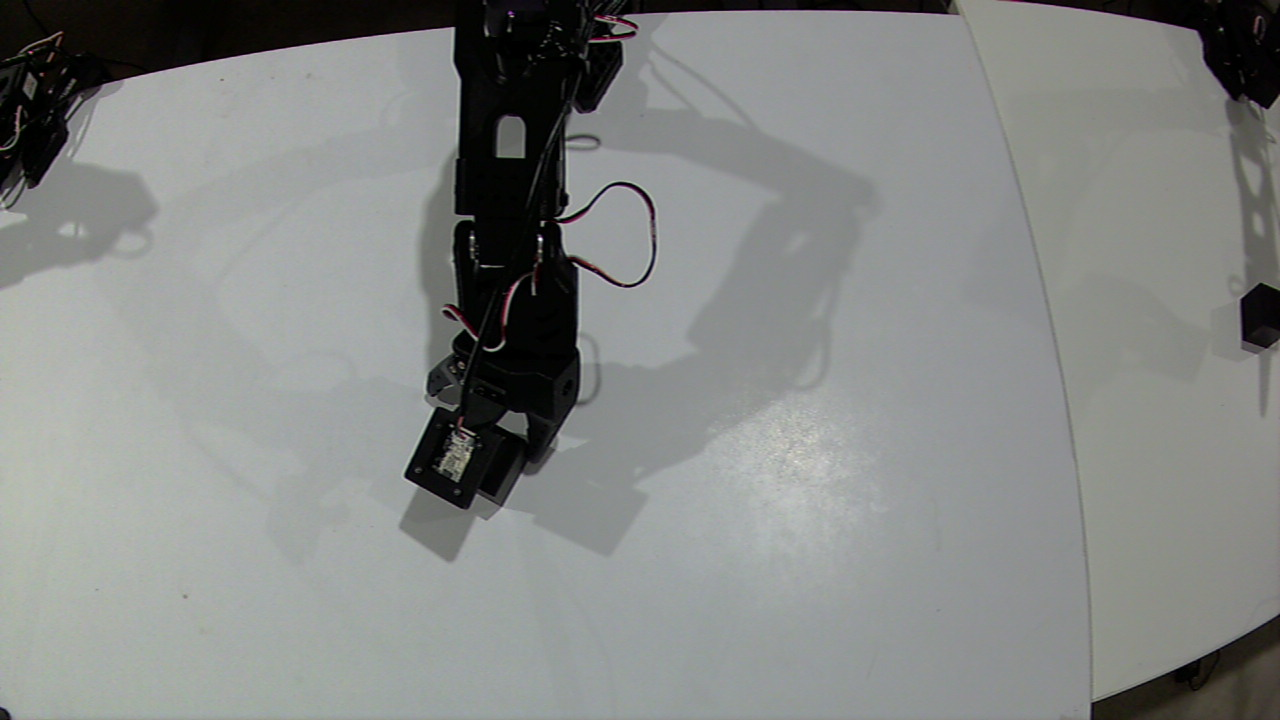
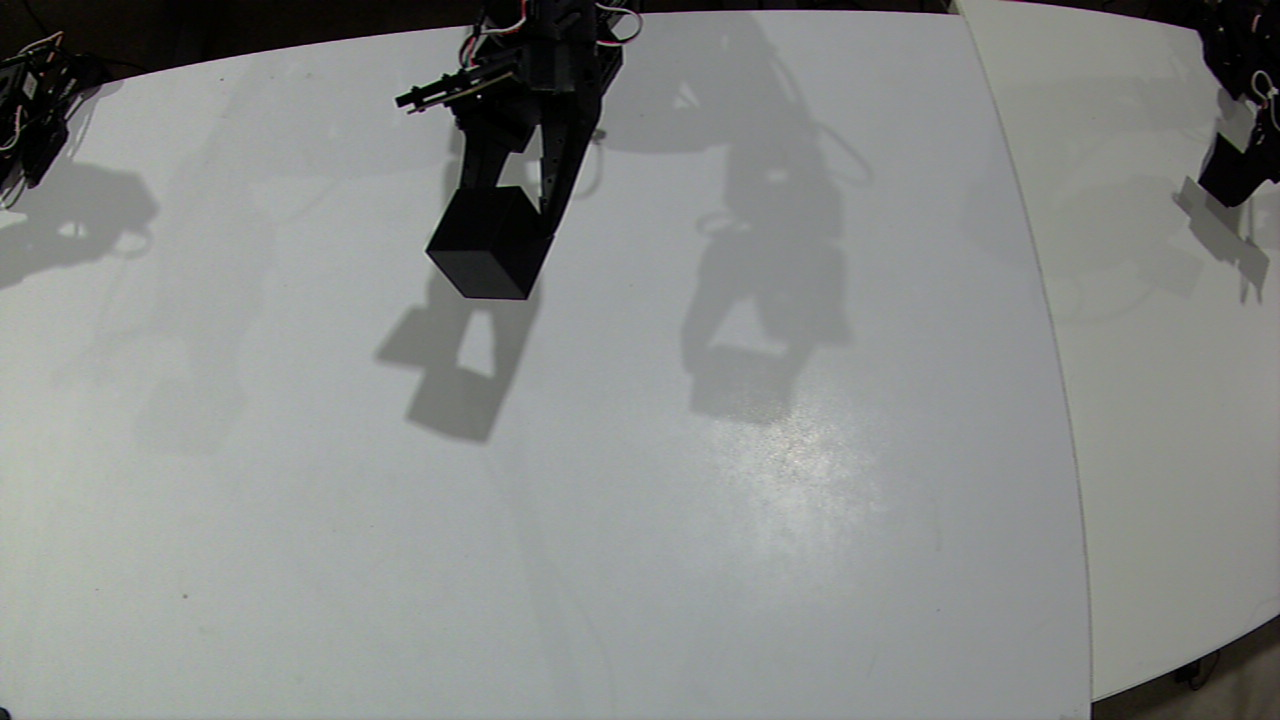
Update tools for arm-007__gpt-6-astra__grasp-cube
{"agent_id": "arm-007__gpt-6-astra__grasp-cube", "designation": "arm-007", "identity_version": 2, "model": "gpt-6-astra", "provider": "codex", "task_definition": {"description": "Start episode, pickup the black cube, bring black cube to home position, confirm successful grasp, stop episode, return object to new position, return home, repeat", "id": "grasp-cube", "success_criteria": ["successful episode coverage across the entire workspace", "achieve at least 50 successful episodes an hour"], "version": 2}, "task_id": "grasp-cube", "task_sha256": "e6c8adbb1562fdc6af3405e2e618046b110e27856c520c9f5cd329c258fb3818", "task_version": 2, "tools_sha256": "d5e29680a4860805dbd365016505a5ef24a24dec5ceac14b64aa4ab81fed2b74"}

diff --git a/agents/arm-007__gpt-6-astra__grasp-cube/cube_cycles.py b/agents/arm-007__gpt-6-astra__grasp-cube/cube_cycles.py
@@ -1,0 +1,74 @@
+"""Recorded cube cycles, with fresh camera and contact checks and bounded placement grid."""
+import json,time,sys,signal
+from pathlib import Path
+import cv2,numpy as np
+import calibrate_workspace as c, recording
+from camd_client import read_frame
+from cube_control import snapshot
+HOME=c.load_home(Path('home_pose.json'))
+LOG=Path('tools/cube_cycles.jsonl')
+STATE=Path('tools/cube_cycle_state.json')
+def emit(**d):
+ d['time']=time.time()
+ print(json.dumps(d),flush=True)
+ with LOG.open('a') as f:f.write(json.dumps(d)+'\n')
+def move(b,q,t=1.8):
+ for role in ('top','wrist'):read_frame(role)
+ q=c.clamp_target(q,b.calibration)
+ b.enable_torque(list(q));c.move(b,q,t)
+ report=c.settle(b,q,.25)
+ if report['physical_stops']:raise RuntimeError('Physical stop: '+str(report))
+ if max(report['error_degrees'].values(),default=0)>5:raise RuntimeError('Position miss: '+str(report))
+ for j in c.JOINTS:
+  if c.fault_bits(b,j):raise RuntimeError('Motor fault '+j)
+def pose(pan,elbow=20):
+ from scipy.optimize import brentq
+ from fk import forward
+ def height(s):return forward(dict(shoulder_pan=2,shoulder_lift=s,elbow_flex=elbow,wrist_flex=65-s-elbow,wrist_roll=-30))['z']+.002193685765342651
+ s=brentq(height,-40,35)
+ return dict(shoulder_pan=pan,shoulder_lift=s,elbow_flex=elbow,wrist_flex=65-s-elbow)
+def above(q):return {**q,'shoulder_lift':q['shoulder_lift']-30,'wrist_flex':q['wrist_flex']+30}
+def home(b):move(b,HOME,2.3)
+def grip(b):
+ p=b.read('Present_Position','gripper')
+ for goal in range(int(p)-1,5,-1):
+  c.move(b,{'gripper':goal},.05);time.sleep(.06)
+  actual=b.read('Present_Position','gripper')
+  if actual-goal>1.3:
+   b.write('Goal_Position','gripper',actual-.4)
+   time.sleep(.2)
+   return actual
+ raise RuntimeError('No cube contact')
+def held(b):
+ img,meta=read_frame('wrist')
+ dark=float(np.mean(cv2.cvtColor(img[280:580,720:1080],cv2.COLOR_BGR2GRAY)<65))
+ p=b.read('Present_Position','gripper')
+ ok=15<p<35 and dark>.85
+ return ok,dict(gripper=p,wrist_dark=dark,frame_seq=meta['seq'])
+def run(n):
+ current=json.loads(STATE.read_text()) if STATE.exists() else pose(17)
+ grid=[(5,40),(-15,60),(25,40)]+[(pan,e) for e in (20,30,40,50,60) for pan in (-30,-15,0,15,30)]
+ active=False
+ with c.connected_bus(recording.serial_port()) as b:
+  try:
+   move(b,above(current));home(b)
+   for i in range(n):
+    ep=recording.start_recording('Pick black cube, bring to home, visually confirm retained grasp');active=True
+    move(b,above(current));move(b,current,1.5)
+    contact=grip(b)
+    move(b,above(current),1.5);home(b)
+    ok,evidence=held(b);snapshot()
+    receipt=recording.stop_recording(ok,json.dumps(dict(source_pose=current,contact=contact,home_confirm=evidence)));active=False
+    emit(event='episode',success=ok,receipt=receipt,evidence=evidence)
+    if not ok:raise RuntimeError('Grasp not verified at home')
+    target=pose(*grid[i%len(grid)])
+    move(b,above(target));move(b,target,1.5)
+    move(b,{'gripper':45},.5)
+    current=target;STATE.write_text(json.dumps(current))
+    move(b,above(current),1.5);home(b)
+    snapshot();emit(event='placed',pose=current)
+  except BaseException as e:
+   emit(event='stopped',error=str(e))
+   if active:recording.stop_recording(False,str(e))
+   raise
+if __name__=='__main__':run(int(sys.argv[1]) if len(sys.argv)>1 else 1)
